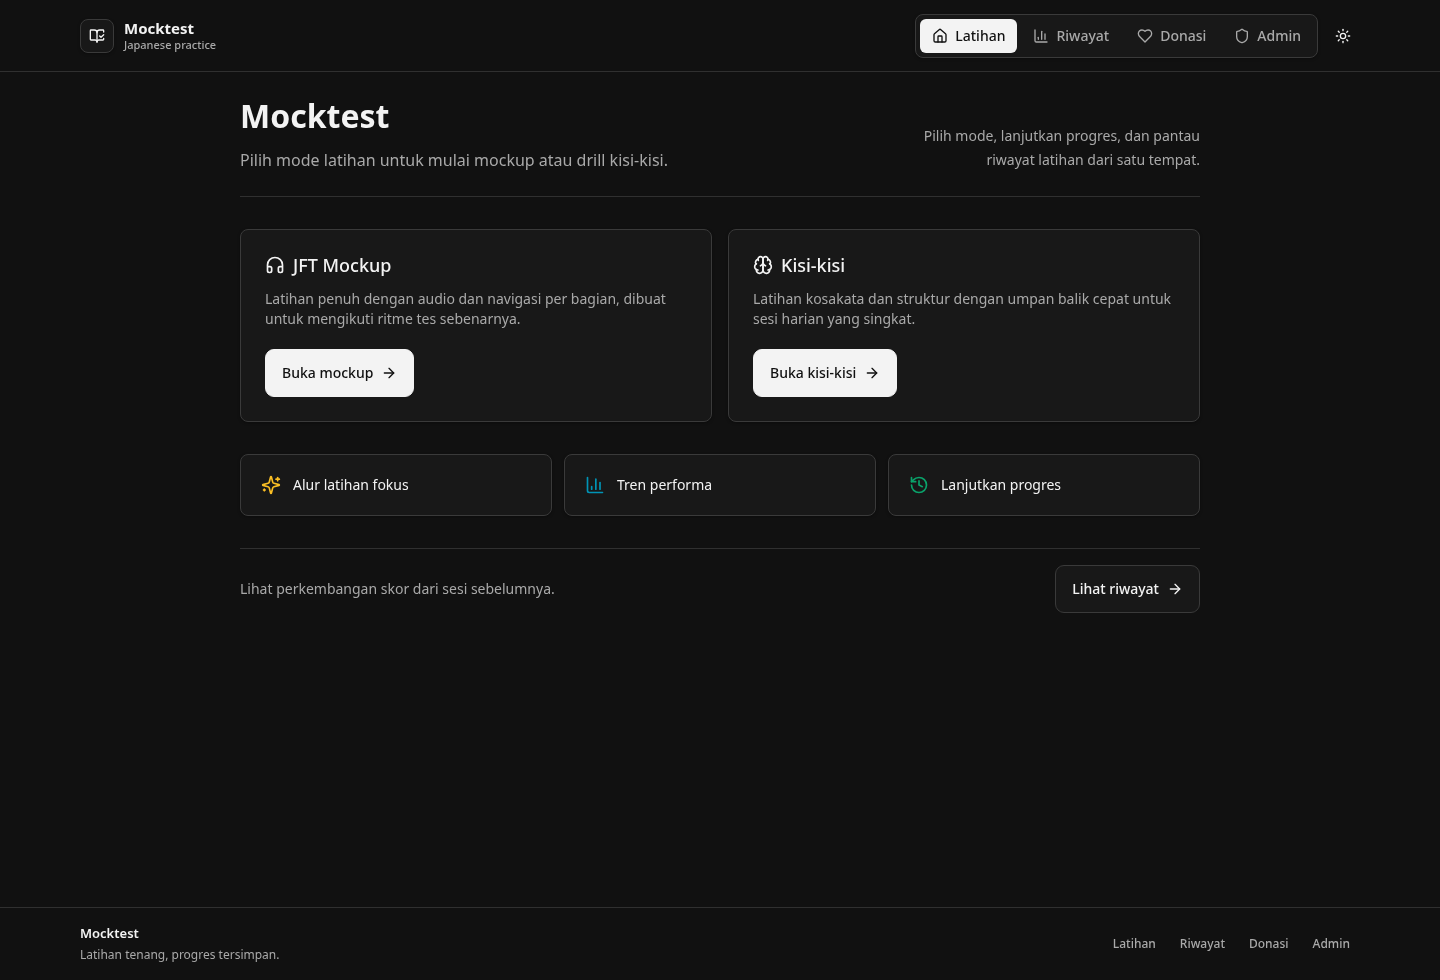
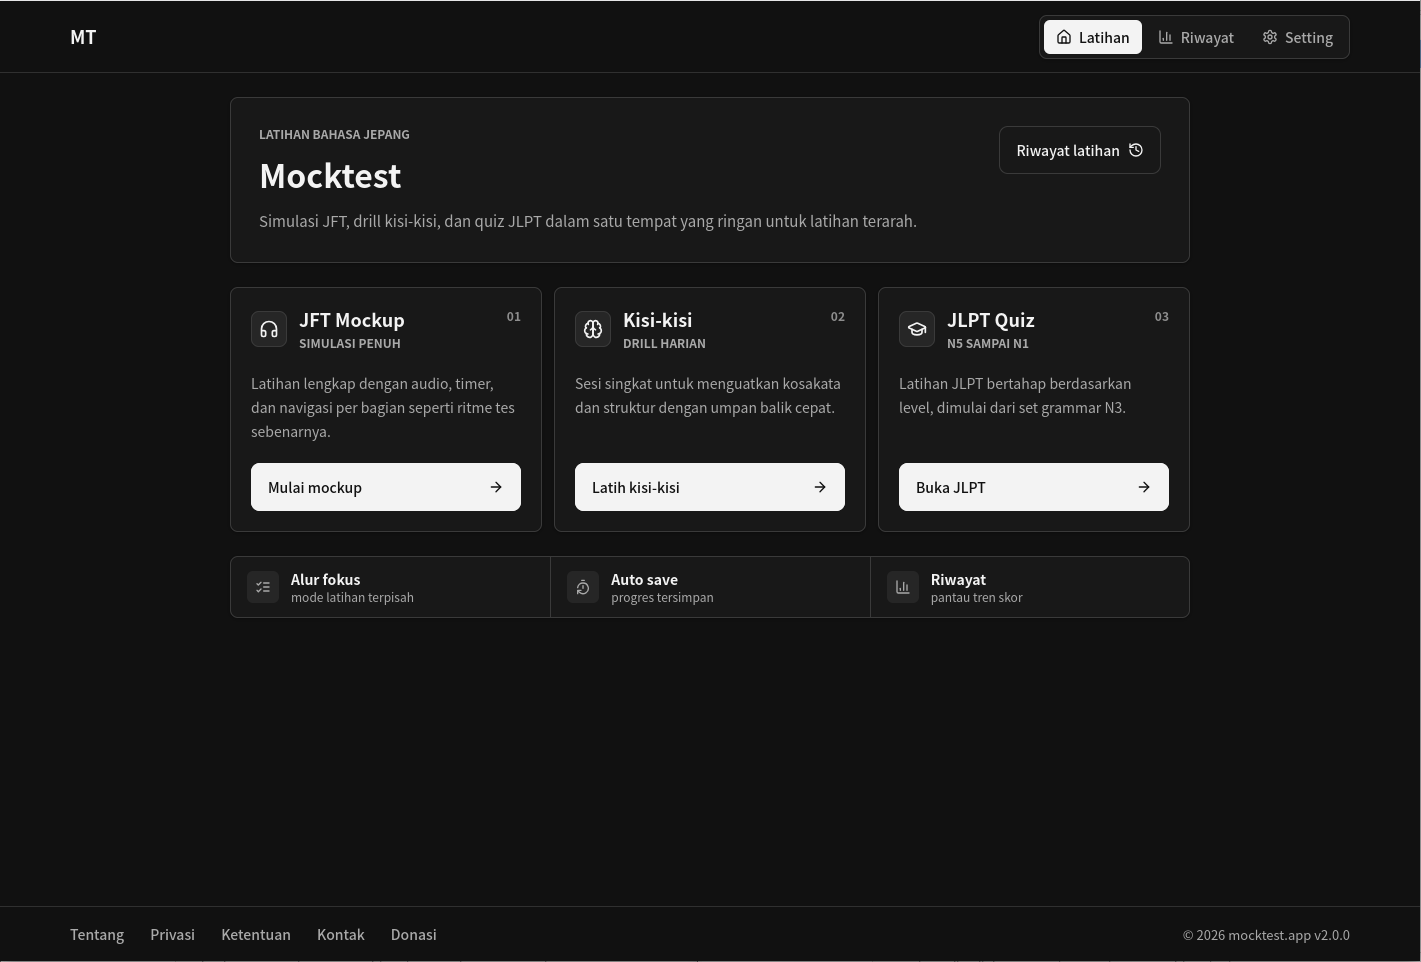
feat: update projects screenshots

diff --git a/src/main.tsx b/src/main.tsx
@@ -29,7 +29,7 @@ const projects = [
       dark: "/assets/mocktest-live-dark.png"
     },
     fallback: "Mocktest practice",
-    liveUrl: "https://mocktest.xnv.biz.id",
+    liveUrl: "https://mocktest.xnv.my.id",
     repoUrl: "https://github.com/arjawa123/mocktests",
     stack: ["Next.js", "React", "TypeScript", "Supabase", "Recharts"],
     highlights: [
@@ -49,7 +49,7 @@ const projects = [
       dark: "/assets/vocab-live-dark.png"
     },
     fallback: "Vocabulary trainer",
-    liveUrl: "https://vocab.xnv.biz.id",
+    liveUrl: "https://vocab.xnv.my.id",
     repoUrl: "https://github.com/arjawa123/japanese-vocab-app",
     stack: ["Vite", "React", "TypeScript", "PWA", "Express"],
     highlights: [